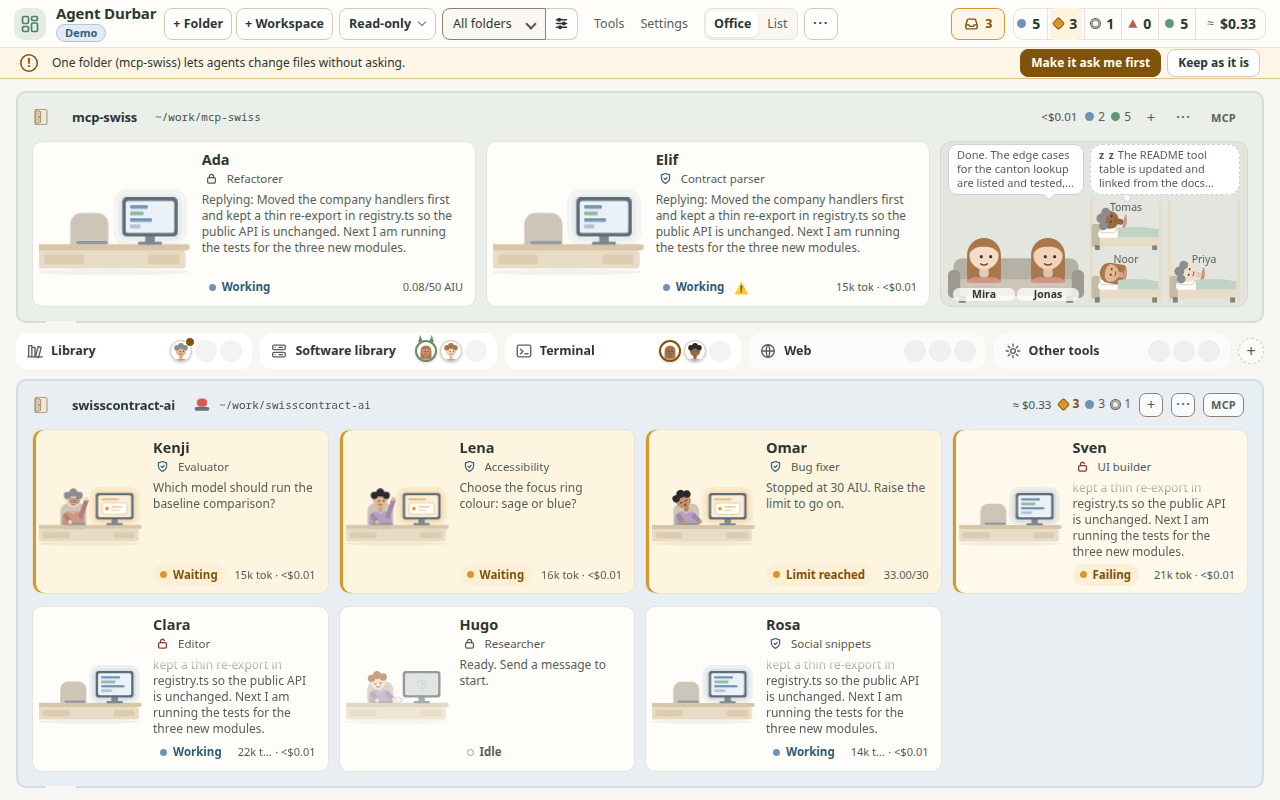
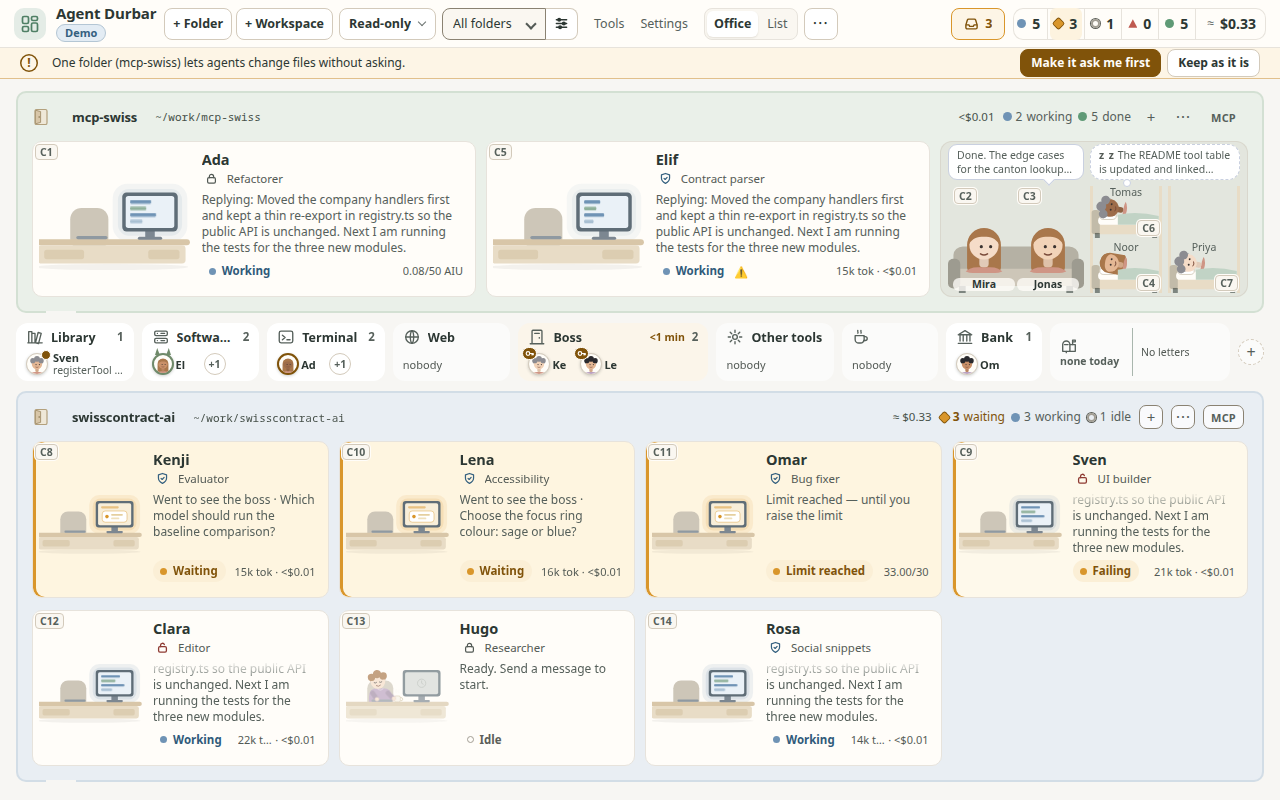
001: a sleeper's chat badge goes to the foot of its bed so it no longer covers the name (issue 576)

diff --git a/scripts/check-office-fill.js b/scripts/check-office-fill.js
@@ -64,6 +64,12 @@ function SCENES() {
     return { id: d.dataset.id, grown: !!document.getElementById('stage').dataset.grow, card: [c.width, c.height].map((x) => Math.round(x * 100) / 100), rel: [r.left - c.left, r.top - c.top, r.width, r.height].map((x) => Math.round(x * 100) / 100), box: [r.left, r.top, r.width, r.height].map(Math.round), flat: [...flat] };
   }).filter(Boolean);
 }
+/* issue 576: in the lounge, a resting agent's chat badge must not sit on its name. The name's text box is the range of its text clipped to
+   the name element (an ellipsis cuts it); it lists the ids whose badge rect meets it. */
+const BADGE_ON_NAME_JS = `[...document.querySelectorAll('#stage .desk.shut')].filter(e=>{const c=e.querySelector('.chatno'),n=e.querySelector('.lg-name');if(!c||!n||!c.getClientRects().length)return false;
+  const rg=document.createRange();rg.selectNodeContents(n);const t=rg.getBoundingClientRect(),el=n.getBoundingClientRect(),b=c.getBoundingClientRect();
+  const l=Math.max(t.left,el.left),r=Math.min(t.right,el.right),tp=Math.max(t.top,el.top),bt=Math.min(t.bottom,el.bottom);
+  return b.left<r&&b.right>l&&b.top<bt&&b.bottom>tp;}).map(e=>e.dataset.id)`;
 const MAX_CHARS = 90; /* owner 2026-10-22: a readable measure, about 80-90 characters a line */
 const GHP = 'ghp_' + 'Fill0Token0Value0123456789ab', PAT = 'github_pat_' + '11FILL0TOKEN_value0123456789abcdef';
 
@@ -151,6 +157,7 @@ module.exports = async (ctx) => {
       if (n === 15 && w !== 1920) check(!st.gf, `15 agents with helpers at ${w}x${h} are grown`);
       /* FR-053: Noor and Maya (done, each in a folder where others work) roll in; the 15 agents still fit (checked by one()) */
       if (n === 15) { const sh = await js(`[...document.querySelectorAll('#stage .desk.shut')].map(e=>(e.getAttribute('aria-label')||'').split(',')[0]).sort().join(',')`); check(sh === 'Maya,Noor', `15 agents at ${w}x${h}: rolled ${sh}, not Maya,Noor`);
+        if (w !== 1920) { const cb = await js(`${BADGE_ON_NAME_JS}.join(',')`); check(cb === '', `15 agents at ${w}x${h}: the chat badge covers the name of ${cb} in the lounge (issue 576)`); }
         const hh = await js(`[...document.querySelectorAll('#stage .lounge')].map(e=>{const d=e.closest('.room').querySelector('.desk.card');return d?Math.abs(e.getBoundingClientRect().height-d.getBoundingClientRect().height):99})`);
         check(hh.every((x) => x <= 1), `15 agents at ${w}x${h}: a rolled agent is not as tall as the desks in its room (${hh})`);
         /* review of #554 (Paco): the lounge changes no working desk's scene. Every desk open with the setting on and off has the same scene box
@@ -306,6 +313,7 @@ module.exports = async (ctx) => {
       check(/, (resting on the couch|asleep on a nap bed), finished (just now|\d+ (minute|hour|day)s? ago): /.test(x.l) && /[^.]\. Open chat panel\.$/.test(x.l), `${tag}: ${x.id} label "${x.l}"`);
     }
     for (const x of a.labels) check(x.nm.shown && x.nm.in && x.nm.font >= 10.5 && x.l.startsWith(x.nm.t + ','), `${tag}: ${x.id} does not show its name on its character (${JSON.stringify(x.nm)})`);
+    { const cb = await js(`${BADGE_ON_NAME_JS}.join(',')`); check(cb === '', `${tag}: the chat badge covers the name of ${cb} (issue 576)`); }
     check(a.labels.filter((x) => a.recent.includes(x.id)).every((x) => x.avH >= (a.lg.h >= 150 ? 44 : 24)), `${tag}: the couch characters are too small for a ${a.lg.h}px lounge (${a.labels.map((x) => x.avH)})`);
     check(/resting on the couch, finished 2 minutes ago: Done\. The edge cases/.test((a.labels.find((x) => x.id === 'sim-2') || {}).l || ''), `${tag}: Mira's label`);
     /* the bubbles: a speech bubble over the couch, a dream cloud over the beds, inside the lounge, >= 10.5px, masked */

diff --git a/src/renderer/styles.css b/src/renderer/styles.css
@@ -1719,6 +1719,8 @@ body.simple #ctxMenu #compactBtn{display:flex!important} /* spec 005 FR-041: Tid
 .lg-bed .bd-pil{fill:var(--bubble,var(--surface));stroke:var(--line-2);stroke-width:.6}
 .lg-blanket .bd-blk{fill:color-mix(in srgb,var(--sage) 55%,var(--surface))}
 .lg-av.lying{position:absolute;left:3px;bottom:calc(min(62%,34px) * .42);height:min(34px,calc(100% - 15px));aspect-ratio:1;transform:rotate(-80deg);border-radius:50%;overflow:hidden}
+/* issue 576: a sleeper's name is on the top line, where the chat number sits on the couch: the number goes to the bed's foot corner, beside the lying character, so the name stays whole */
+.stage .desk.shut.rest-old .chatno{left:auto;top:auto;right:2px;bottom:2px}
 .desk.shut.rest-old .lg-name{top:0;bottom:auto;background:transparent;font-weight:500;color:var(--ink-2)}
 .lg-beds>.shut-more{width:52px;height:auto;padding:0 2px;font-size:10.5px;line-height:13px;flex:none;border-radius:10px;white-space:normal}
 /* the peek card: beside the lounge (left, or right when measured too close to the room's edge), never moving anything */

diff --git a/specs/001-office-view-and-densities/spec.md b/specs/001-office-view-and-densities/spec.md
@@ -392,3 +392,7 @@ The full card's name (`.who .name`) wraps to two lines and ends in "…"; a toke
 - **FR-023 (change)** The layout search counts a room header that cannot hold its parts as "does not fit". After the header steps (count words, then the path, FR-037), every visible part of every room header must end inside the header in the probe, or the next candidate is tried. A layout that fits only by size stays as the fallback, so a header that fits nowhere never turns the office into a scrolling one. Found by CI (`check:office`, DejaVu fonts, `kinds 1280x800 mixed kinds`): with resting agents in the lounge, `mini` with 3 helpers fitted by height, and the `swisscontract-ai` header (siren, AIU, counts, +, …, MCP) was 3px wider than its 336px room; the search now picks `mini` with 1 helper, as main does. `sim:` `check:office` shard 1/3 with `OFFICE_FONT_FILE` DejaVu: 143/143.
 - **FR-054 (change)** The chat-number badge of a resting agent is on its character, not in the peek card (a hidden peek has no box, so the badge was outside its button).
 
+### 2026-10-23: the chat number covers a sleeper's name in the lounge (issue 576)
+
+- **FR-054 (change)** A resting agent's name is always whole: the chat-number badge (spec 074 FR-012) never covers it. A sleeper's name is on the top line of its bed, where the badge sits on the couch, so a sleeper's badge goes to the foot corner of its bed (bottom right, beside the lying character); a couch resident keeps it top left (its name is on the cushion, at the bottom). The name keeps its 10.5px minimum.
+- *Check:* `check:office-fill` (lounge test at 1440x900 and 1280x800, and the 15 agents with helpers) asserts that no `.chatno` rect meets the text rect of its `.lg-name`. It failed before the fix for the three sleepers (mutation: remove the `.rest-old .chatno` rule and it fails again).

diff --git a/specs/001-office-view-and-densities/tasks.md b/specs/001-office-view-and-densities/tasks.md
@@ -140,3 +140,5 @@ First build (PR #511, morning): T041..T046. The rail parts (T042, T043) were rem
 - [x] T061 Desk card title masked with `DurbarRedact.redact` before the 200-character cut, accessible name masked, name only without the module; driver case with a `ghp_` token across the cut; the #567 hand-off in spec and plan [FR-036, spec 041 FR-065]
   - Check: mutation (cut, then mask) fails it.
 - [x] T062 `focusRequest(card)` shared by the answer bar's `show` and `openAtRequest` [FR-034]
+- [x] T063 The chat badge of a sleeper in the lounge goes to the bed's foot corner so it does not cover the name; `check:office-fill` asserts badge and name rects do not meet (1440x900, 1280x800) [FR-054, issue 576]
+  - Check: mutation (remove the `.rest-old .chatno` rule) fails it.

diff --git a/changelog.d/001-lounge-peek-badge.md b/changelog.d/001-lounge-peek-badge.md
@@ -1,0 +1,1 @@
+- **Fixed: in the lounge, a sleeping agent's chat number no longer covers its name** ("Noor" read "oor"). The number moves to the foot corner of the bed; `check:office-fill` now fails when a badge meets a name (spec 001 FR-054, issue 576).
